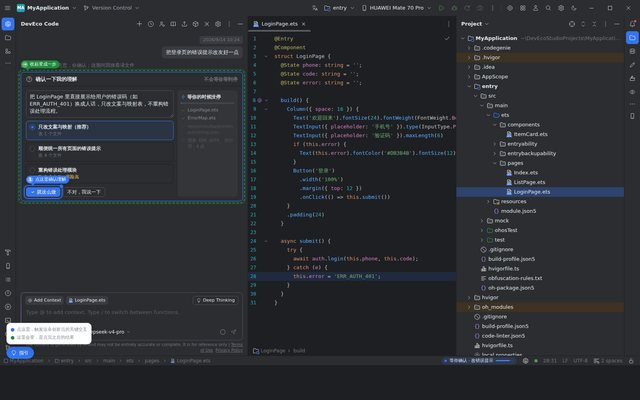
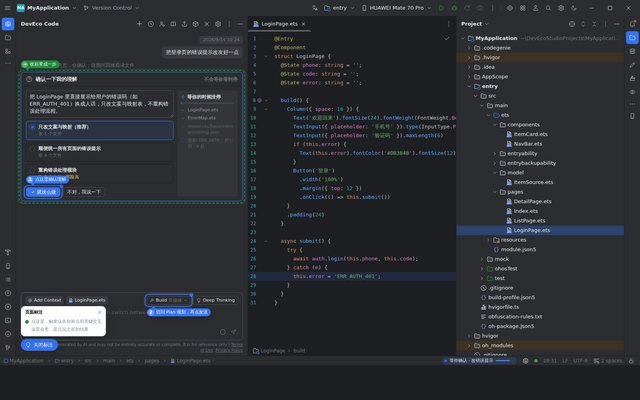
demo 20 新增设备中心（五类设备一张表、一键诊断、崩溃在云端/远端真机复现）；demo 11 新增 Build / Goal / Plan 模式与可编辑计划、按计划执行并标出偏离
Claude-Session: https://claude.ai/code/session_01HsLiuXw9GEzdrquzWL26SL

Changed region(s): [[0.6875, 0.33, 1.0, 0.9], [0.0, 0.75, 0.1875, 0.9], [0.2188, 0.72, 0.3438, 0.81]]

diff --git a/demos/20-connect-status/index.html b/demos/20-connect-status/index.html
@@ -747,7 +747,7 @@
       c.hist.push(['ok','00.9 s','找到手表 · 信号 -52 dBm · 已授权过']);d.stTxt='建立通道 · hdc';refresh(d.id)},1000);
     setTimeout(function(){c.steps[2]=['done','hdc · 5555'];c.steps[3]=['run','核对中…'];d.step=4;c.text='核对设备系统版本与工程 SDK…';
       c.hist.push(['ok','01.7 s','hdc 通道已建立 · 端口 5555']);d.stTxt='版本匹配 · 核对中';refresh(d.id)},1800);
-    setTimeout(function(){c.steps[3]=['done','HarmonyOS 6.0'];c.steps[4]=['done',''];c.indet=0;c.bar=100;c.text='就绪，用时 2.4 秒';
+    setTimeout(function(){c.steps[3]=['done','API 20'];c.steps[4]=['done',''];c.indet=0;c.bar=100;c.text='就绪，用时 2.4 秒';d.use={k:'local',gb:0.1};
       c.ok='HUAWEI WATCH 5 · HarmonyOS 6.0 · API 20，与工程 SDK 一致。';c.hist.push(['ok','02.4 s','设备 API 20 与工程 SDK 一致 · 就绪']);
       d.st='ready';d.running=0;d.stTxt='空闲';refresh(d.id)},2500);
   }
@@ -836,7 +836,7 @@
   });
 
   renderHub();showDetail();
-DemoGuide.init([{"target": "#btn-recheck", "kind": "click", "pos": "top", "label": "点这里重新检测"}, {"target": "#steps", "kind": "change", "pos": "top", "label": "步骤条往前推进"},
+DemoGuide.init([{"target": "#btn-recheck", "kind": "click", "pos": "top", "label": "点这里重新检测"}, {"target": "#steps", "kind": "change", "pos": "left", "label": "步骤条往前推进"},
   {"target": ".hr[data-id=\"emu\"] .fm", "kind": "click", "pos": "left", "label": "点一台就绪设备"},
   {"target": "#btn-diag", "kind": "click", "pos": "right", "label": "一键打包诊断"},
   {"target": "#btn-repro", "kind": "click", "pos": "right", "label": "选一条崩溃去复现"}]);
